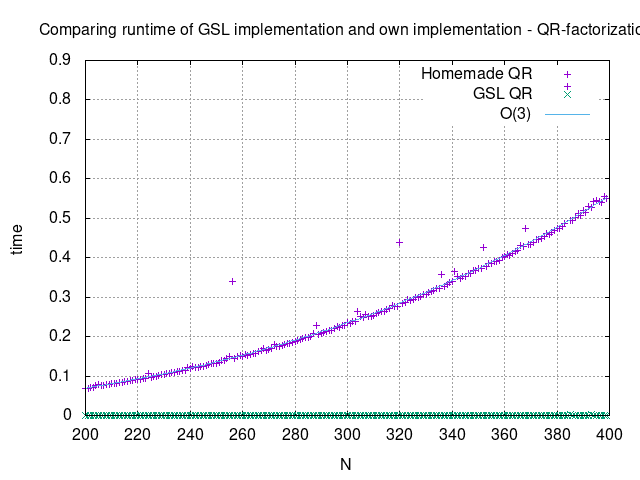
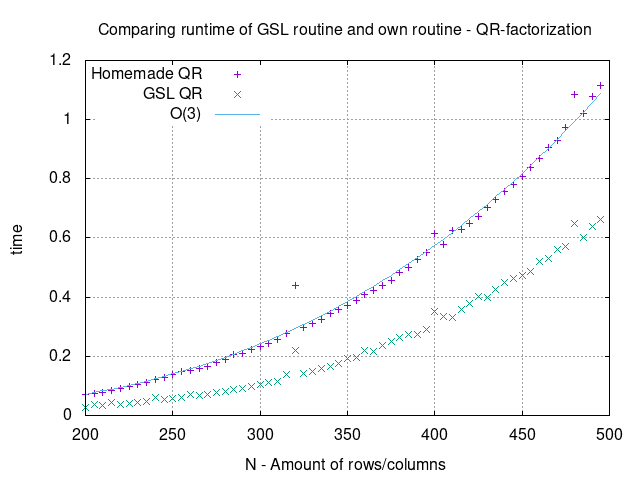
Finished random matrix generation and exercise C

diff --git a/homework/linear_equations/main.c b/homework/linear_equations/main.c
@@ -290,7 +290,7 @@ int main(){
     int firstLoop = 0;
     double baseTime = 0;
 
-    for(int q=200; q<400; q++){
+    for(int q=200; q<500; q += 5){ //Increase increment by 5 each loop so we dont get too much clutter
         gsl_matrix* A_time = gsl_matrix_alloc(q,q);
         gsl_matrix* R_time = gsl_matrix_alloc(q,q);
         gsl_matrix* gsl_A_time = gsl_matrix_alloc(q,q);
@@ -298,7 +298,7 @@ int main(){
 
         for(int i=0; i<(A_time->size1); i++){ //Creates a random matrix of size n,m
             for(int j=0; j<(A_time->size2); j++){
-                double A_ij = rand()/RAND_MAX;
+                double A_ij = (double) rand()/RAND_MAX*40;
                 gsl_matrix_set(A_time,i,j,A_ij);
             }
         }
@@ -336,7 +336,6 @@ int main(){
         }
 
     }
-
 
     return 0;
 }
